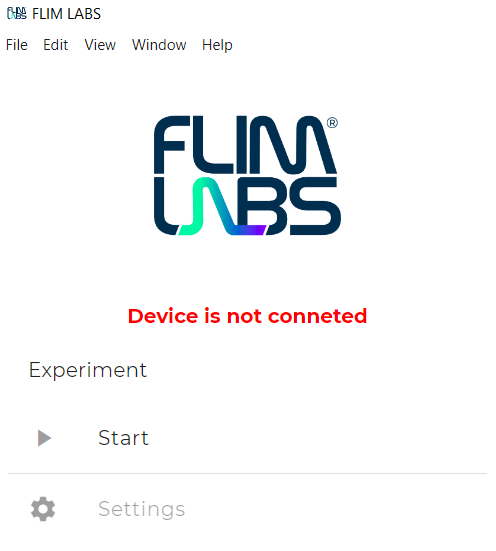
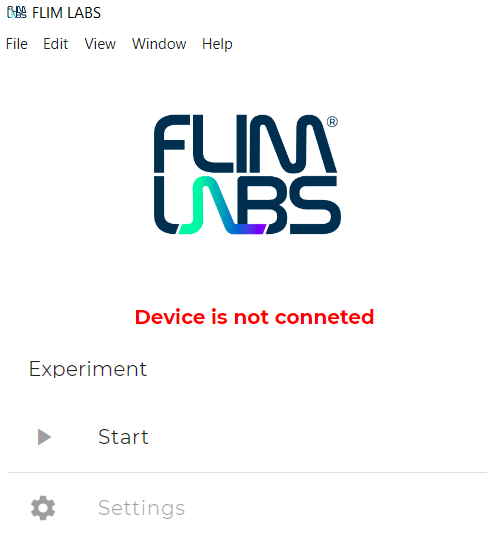
flim studio manual wip #6

diff --git a/products/flim-studio/index.md b/products/flim-studio/index.md
@@ -149,7 +149,7 @@ You can download our software latest version at this [link](https://www.flimlabs
 
 - Possess a [FLIM LABS data acquisition card](https://www.flimlabs.com/products/data-acquisition-card/).
   <p align="center"><img src="../../assets/flim-studio/device-connected.PNG" alt="connected device serial number id" height="400px" >
-  <img src="../../assets/flim-studio/device-not-connected.PNG" alt="device non connected error message" height="393px" >
+  <img src="../../assets/flim-studio/device-not-connected.PNG" alt="device non connected error message" height="400px" >
   </p>
 
   Verify whether the software detects or recognizes the card, and ensure that it returns the card's serial number.
